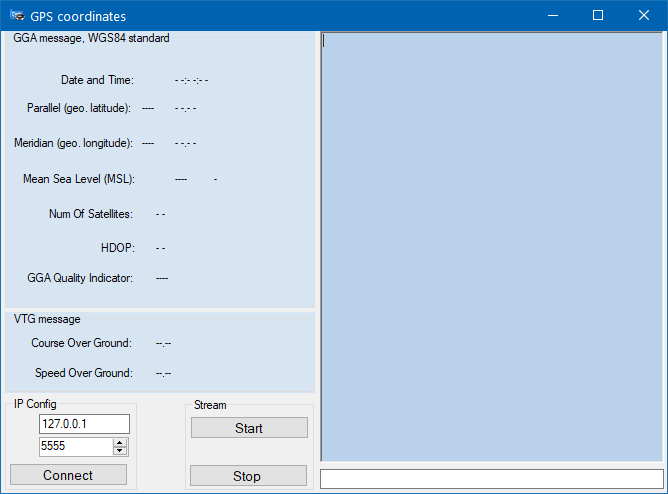
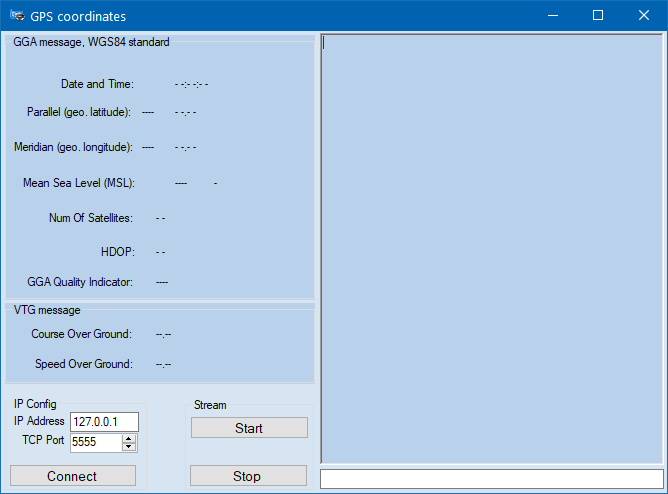
IP Config labels

diff --git a/GPS/FormGPS.Designer.cs b/GPS/FormGPS.Designer.cs
@@ -63,6 +63,8 @@
             this.Port = new System.Windows.Forms.NumericUpDown();
             this.IPAddress = new System.Windows.Forms.TextBox();
             this.Stream = new System.Windows.Forms.GroupBox();
+            this.IPA_label = new System.Windows.Forms.Label();
+            this.Port_label = new System.Windows.Forms.Label();
             this.GGA_WGS84.SuspendLayout();
             this.VTG.SuspendLayout();
             this.IPConfig.SuspendLayout();
@@ -274,7 +276,7 @@
             // 
             // GGA_WGS84
             // 
-            this.GGA_WGS84.BackColor = System.Drawing.SystemColors.GradientInactiveCaption;
+            this.GGA_WGS84.BackColor = System.Drawing.SystemColors.GradientActiveCaption;
             this.GGA_WGS84.Controls.Add(this.lbLatitude);
             this.GGA_WGS84.Controls.Add(this.lbLongitude);
             this.GGA_WGS84.Controls.Add(this.Parallel);
@@ -292,11 +294,11 @@
             this.GGA_WGS84.Controls.Add(this.NumOfSatellites);
             this.GGA_WGS84.Controls.Add(this.lbHeight);
             this.GGA_WGS84.Controls.Add(this.DateTime);
-            this.GGA_WGS84.Location = new System.Drawing.Point(5, 0);
+            this.GGA_WGS84.Location = new System.Drawing.Point(5, 5);
             this.GGA_WGS84.Margin = new System.Windows.Forms.Padding(4);
             this.GGA_WGS84.Name = "GGA_WGS84";
             this.GGA_WGS84.Padding = new System.Windows.Forms.Padding(4);
-            this.GGA_WGS84.Size = new System.Drawing.Size(413, 341);
+            this.GGA_WGS84.Size = new System.Drawing.Size(413, 326);
             this.GGA_WGS84.TabIndex = 24;
             this.GGA_WGS84.TabStop = false;
             this.GGA_WGS84.Text = "GGA message, WGS84 standard";
@@ -307,7 +309,7 @@
             | System.Windows.Forms.AnchorStyles.Left) 
             | System.Windows.Forms.AnchorStyles.Right)));
             this.ReceivedStream.BackColor = System.Drawing.SystemColors.GradientActiveCaption;
-            this.ReceivedStream.Location = new System.Drawing.Point(425, 0);
+            this.ReceivedStream.Location = new System.Drawing.Point(425, 2);
             this.ReceivedStream.Margin = new System.Windows.Forms.Padding(4);
             this.ReceivedStream.Name = "ReceivedStream";
             this.ReceivedStream.ReadOnly = true;
@@ -367,12 +369,12 @@
             // 
             // VTG
             // 
-            this.VTG.BackColor = System.Drawing.SystemColors.GradientInactiveCaption;
+            this.VTG.BackColor = System.Drawing.SystemColors.GradientActiveCaption;
             this.VTG.Controls.Add(this.COG);
             this.VTG.Controls.Add(this.lbSOG);
             this.VTG.Controls.Add(this.lbCOG);
             this.VTG.Controls.Add(this.SOG);
-            this.VTG.Location = new System.Drawing.Point(5, 346);
+            this.VTG.Location = new System.Drawing.Point(5, 335);
             this.VTG.Name = "VTG";
             this.VTG.Size = new System.Drawing.Size(413, 100);
             this.VTG.TabIndex = 31;
@@ -381,12 +383,14 @@
             // 
             // IPConfig
             // 
+            this.IPConfig.Controls.Add(this.Port_label);
+            this.IPConfig.Controls.Add(this.IPA_label);
             this.IPConfig.Controls.Add(this.Connect);
             this.IPConfig.Controls.Add(this.Port);
             this.IPConfig.Controls.Add(this.IPAddress);
             this.IPConfig.Location = new System.Drawing.Point(5, 450);
             this.IPConfig.Name = "IPConfig";
-            this.IPConfig.Size = new System.Drawing.Size(176, 116);
+            this.IPConfig.Size = new System.Drawing.Size(189, 116);
             this.IPConfig.TabIndex = 32;
             this.IPConfig.TabStop = false;
             this.IPConfig.Text = "IP Config";
@@ -395,10 +399,10 @@
             // 
             this.Connect.Anchor = ((System.Windows.Forms.AnchorStyles)((System.Windows.Forms.AnchorStyles.Bottom | System.Windows.Forms.AnchorStyles.Left)));
             this.Connect.Font = new System.Drawing.Font("Microsoft Sans Serif", 9.75F, System.Drawing.FontStyle.Regular, System.Drawing.GraphicsUnit.Point, ((byte)(0)));
-            this.Connect.Location = new System.Drawing.Point(6, 81);
+            this.Connect.Location = new System.Drawing.Point(6, 83);
             this.Connect.Margin = new System.Windows.Forms.Padding(4);
             this.Connect.Name = "Connect";
-            this.Connect.Size = new System.Drawing.Size(159, 28);
+            this.Connect.Size = new System.Drawing.Size(170, 28);
             this.Connect.TabIndex = 5;
             this.Connect.Text = "Connect";
             this.Connect.UseVisualStyleBackColor = true;
@@ -406,7 +410,7 @@
             // 
             // Port
             // 
-            this.Port.Location = new System.Drawing.Point(45, 49);
+            this.Port.Location = new System.Drawing.Point(87, 44);
             this.Port.Maximum = new decimal(new int[] {
             65535,
             0,
@@ -418,7 +422,7 @@
             0,
             0});
             this.Port.Name = "Port";
-            this.Port.Size = new System.Drawing.Size(120, 22);
+            this.Port.Size = new System.Drawing.Size(91, 22);
             this.Port.TabIndex = 4;
             this.Port.Tag = "TCP";
             this.Port.Value = new decimal(new int[] {
@@ -430,9 +434,9 @@
             // 
             // IPAddress
             // 
-            this.IPAddress.Location = new System.Drawing.Point(45, 21);
+            this.IPAddress.Location = new System.Drawing.Point(87, 18);
             this.IPAddress.Name = "IPAddress";
-            this.IPAddress.Size = new System.Drawing.Size(120, 22);
+            this.IPAddress.Size = new System.Drawing.Size(91, 22);
             this.IPAddress.TabIndex = 3;
             this.IPAddress.Text = "127.0.0.1";
             this.IPAddress.KeyUp += new System.Windows.Forms.KeyEventHandler(this.IPAddress_KeyUp);
@@ -448,10 +452,29 @@
             this.Stream.TabStop = false;
             this.Stream.Text = "Stream";
             // 
+            // IPA_label
+            // 
+            this.IPA_label.AutoSize = true;
+            this.IPA_label.Location = new System.Drawing.Point(8, 21);
+            this.IPA_label.Name = "IPA_label";
+            this.IPA_label.Size = new System.Drawing.Size(76, 17);
+            this.IPA_label.TabIndex = 6;
+            this.IPA_label.Text = "IP Address";
+            // 
+            // Port_label
+            // 
+            this.Port_label.AutoSize = true;
+            this.Port_label.Location = new System.Drawing.Point(19, 44);
+            this.Port_label.Name = "Port_label";
+            this.Port_label.Size = new System.Drawing.Size(65, 17);
+            this.Port_label.TabIndex = 7;
+            this.Port_label.Text = "TCP Port";
+            // 
             // FormGPS
             // 
             this.AutoScaleDimensions = new System.Drawing.SizeF(8F, 16F);
             this.AutoScaleMode = System.Windows.Forms.AutoScaleMode.Font;
+            this.BackColor = System.Drawing.SystemColors.GradientInactiveCaption;
             this.ClientSize = new System.Drawing.Size(888, 568);
             this.Controls.Add(this.Stream);
             this.Controls.Add(this.IPConfig);
@@ -512,6 +535,8 @@
         private System.Windows.Forms.NumericUpDown Port;
         private System.Windows.Forms.Button Connect;
         private System.Windows.Forms.GroupBox Stream;
+        private System.Windows.Forms.Label Port_label;
+        private System.Windows.Forms.Label IPA_label;
     }
 }
 
